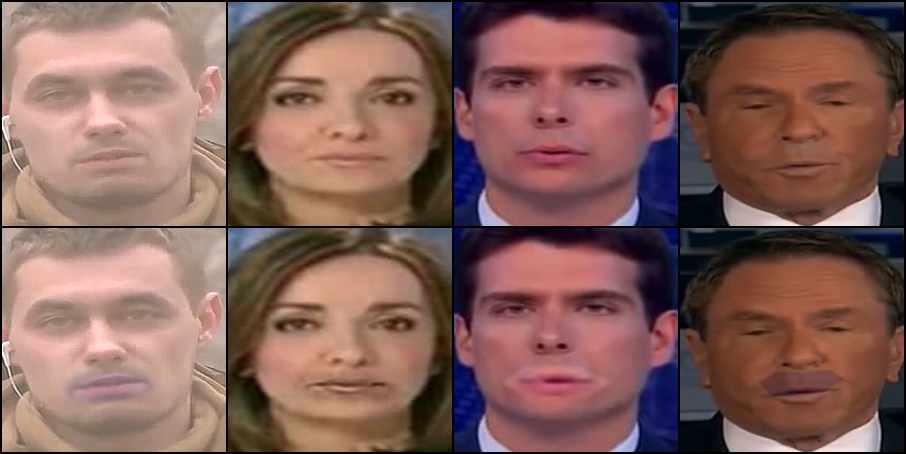
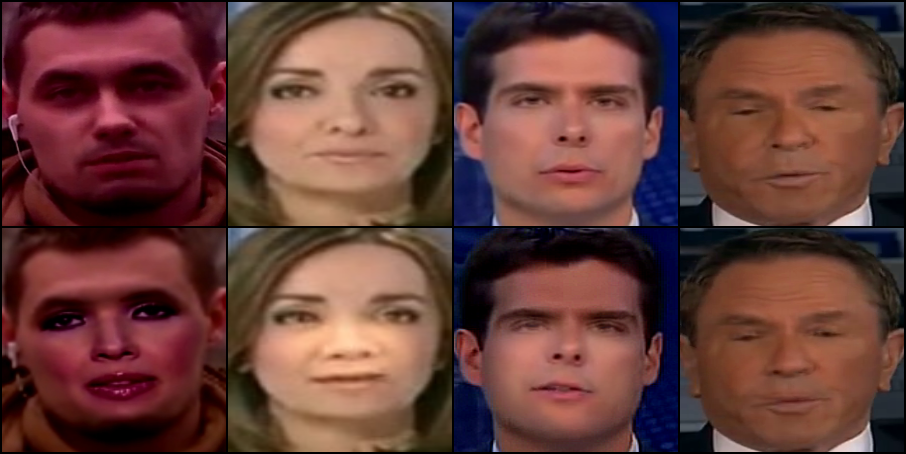
fix down scale mask shape bug for MixBIv4

diff --git a/src/utils/DEBUG_dataset.py b/src/utils/DEBUG_dataset.py
@@ -67,7 +67,7 @@ class SBI_Dataset(Dataset):
             # try:
                 filename = self.image_list[idx]
                 # if np.random.rand() < 0.5:
-                if False:
+                if True:
                     # IBI与BI进行整合
 
                     # # 读取做背景图片的lm和bbox
@@ -89,15 +89,16 @@ class SBI_Dataset(Dataset):
                     landmark_bi = self.reorder_landmark(landmark_bi)
                     # # 通过IBI或BI方法混合
                     logging.disable(logging.FATAL)
-                    # if np.random.rand() < 0.5:
-                    if True:
+                    if np.random.rand() < 0.5:
+                    # if True:
                         # # BI方法
                         self.bi.stats = 'BI'
                     else:
                         # # IBI方法
                         self.bi.stats = 'IBI'
                              # 获取IBI的目录
-                        idt_dir = glob(filename[:-7]+'*')
+                        # idt_dir = glob(filename[:-7]+'*')
+                        idt_dir = glob(filename[0:filename.rfind('/')+1]+'*')
                         # windows的bug
                         idt_dir = [i.replace('\\', '/') for i in idt_dir]
                         idt_dir = [idt_dir[i] for i in range(len(idt_dir)) if os.path.isfile(idt_dir[i].replace(

diff --git a/src/utils/library/vit_gen_pcl.py b/src/utils/library/vit_gen_pcl.py
@@ -277,7 +277,8 @@ class BIOnlineGeneration():
                     blended_face, ori_size, interpolation=cv2.INTER_LINEAR).astype('uint8')
                 mask = cv2.resize(
                     mask, ori_size, interpolation=cv2.INTER_LINEAR).astype('float32')
-                if not isBIBlend:
+                if len(mask.shape) < 3:
+                    # 处理特殊情况
                     mask = mask.reshape(mask.shape+(1,))
 
             blended_face = blended_face.astype(np.uint8)
